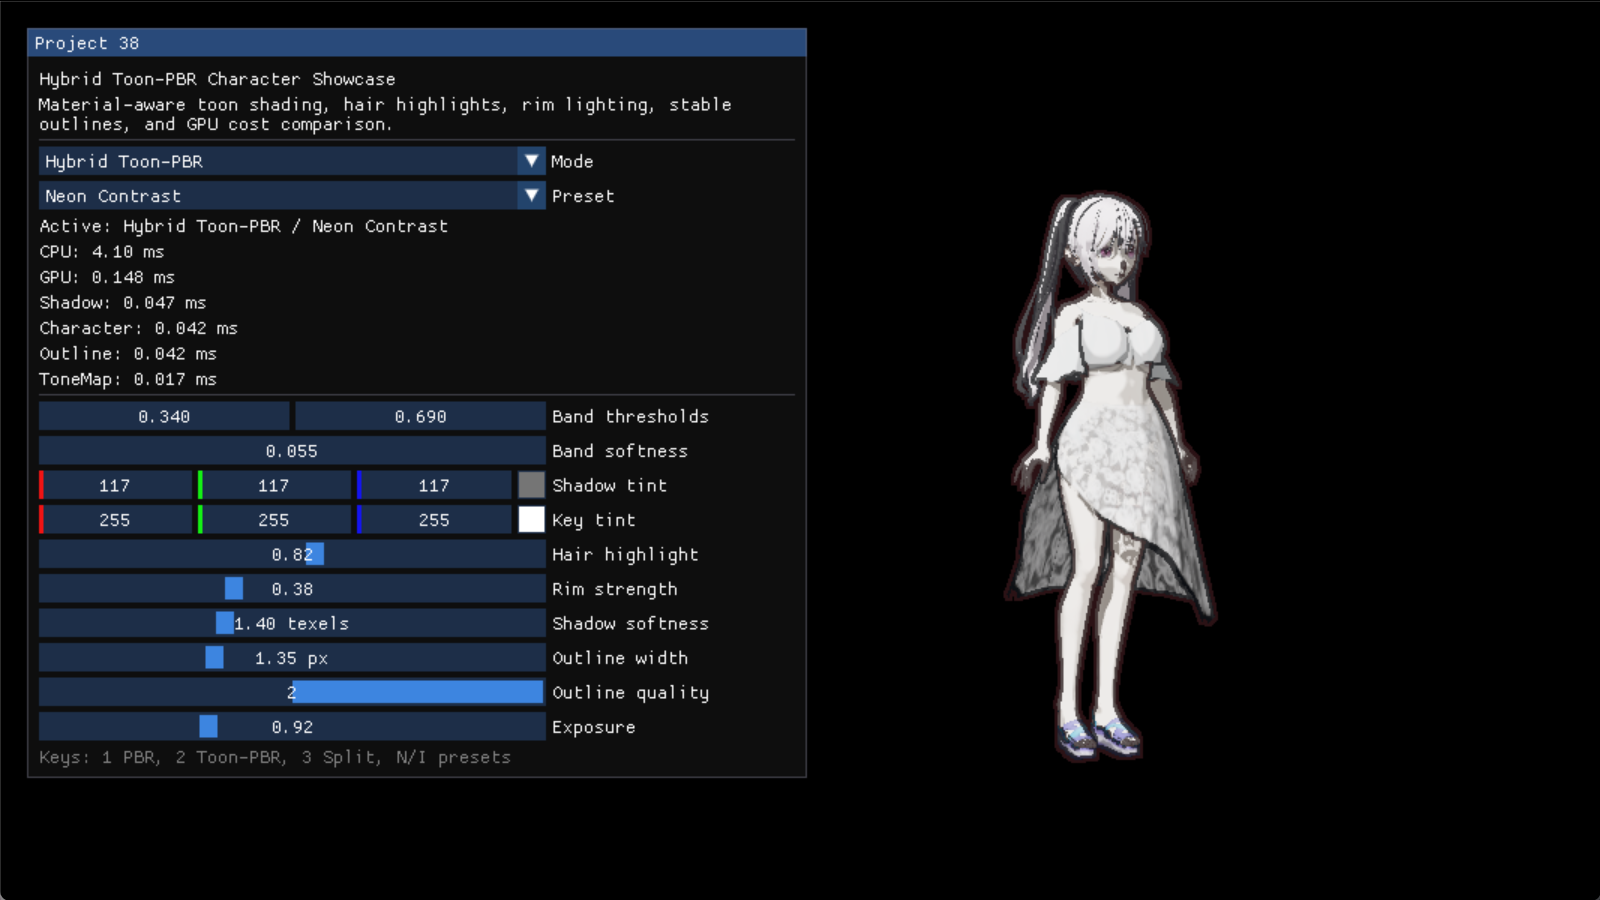
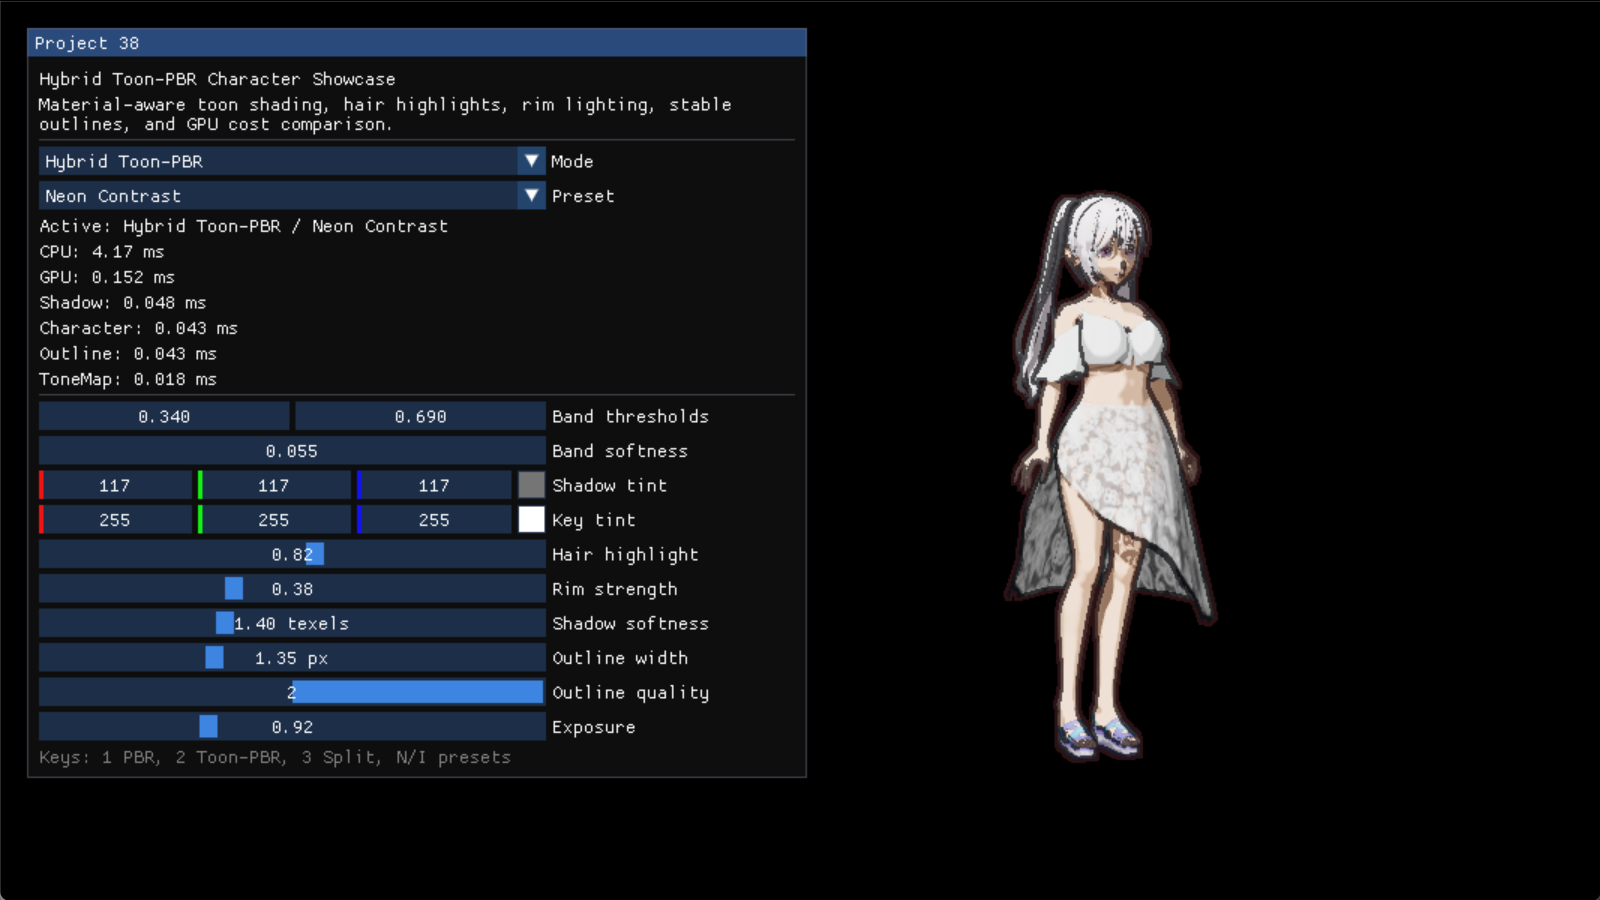
fix: restore project 36 UI and warm project 38 skin

diff --git a/Dx11/38_StylizedToonPBR/App.cpp b/Dx11/38_StylizedToonPBR/App.cpp
@@ -90,6 +90,19 @@ namespace
         { 12, MaterialProfile::Hair },
     }};
 
+    struct SkinToneOverride
+    {
+        uint32_t materialIndex;
+        const char* materialName;
+    };
+
+    // The face model uses separate iris, eye-white, mouth, highlight, and brow overlays which all
+    // need the Skin BRDF profile but must not inherit the body's warm albedo response.
+    constexpr std::array<SkinToneOverride, 2> kSampleModelSkinToneOverrides = {{
+        { 0, "Body_00_SKIN" },
+        { 8, "Face_00_SKIN" },
+    }};
+
     bool CompileShader(
         const wchar_t* fileName,
         const char* entryPoint,
@@ -878,6 +891,20 @@ void App::BuildMaterialProfiles()
             m_materialRenderInfo[overrideEntry.materialIndex].profile = overrideEntry.profile;
     }
 
+    for (const auto& overrideEntry : kSampleModelSkinToneOverrides)
+    {
+        if (overrideEntry.materialIndex >= m_materialRenderInfo.size())
+            continue;
+
+        aiString materialName;
+        aiMaterial* material = scene->mMaterials[overrideEntry.materialIndex];
+        if (material->Get(AI_MATKEY_NAME, materialName) == AI_SUCCESS
+            && std::string(materialName.C_Str()).find(overrideEntry.materialName) != std::string::npos)
+        {
+            m_materialRenderInfo[overrideEntry.materialIndex].skinToneWeight = 1.0f;
+        }
+    }
+
     for (const auto& overrideEntry : kSampleModelBlendModeOverrides)
     {
         if (overrideEntry.materialIndex >= m_materialRenderInfo.size())
@@ -1389,6 +1416,7 @@ void App::UpdateCharacterConstants(
         hasNormal ? 1.0f : 0.0f,
     };
     constants.alphaParameters = { renderInfo.colorAlphaCutoff, 0.0f, 0.0f, 0.0f };
+    constants.styleParameters = { renderInfo.skinToneWeight, 0.0f, 0.0f, 0.0f };
     UpdateDynamicBuffer(m_context.Get(), m_characterConstantBuffer.Get(), constants);
 }
 

diff --git a/Dx11/38_StylizedToonPBR/App.h b/Dx11/38_StylizedToonPBR/App.h
@@ -62,6 +62,7 @@ private:
         DirectX::XMFLOAT4 shadowParameters;
         DirectX::XMFLOAT4 textureParameters;
         DirectX::XMFLOAT4 alphaParameters;
+        DirectX::XMFLOAT4 styleParameters;
     };
 
     struct alignas(16) PostConstants
@@ -82,6 +83,10 @@ private:
         // needs binary coverage instead, so it carries its own cutoff.
         float colorAlphaCutoff = 0.0f;
         float shadowAlphaCutoff = 0.0f;
+        // Only the authored body and face surfaces receive the showcase skin response. Eye,
+        // mouth, brow, and highlight overlays share the Skin material profile for BRDF purposes,
+        // but must retain their authored colours.
+        float skinToneWeight = 0.0f;
         // A glTF BLEND material in this asset is a coplanar decal stacked onto another surface -
         // iris, highlight, eyelash, brow - so it must leave the depth and normal/profile targets the
         // outline pass reads to the surface underneath it. A translucent garment promoted out of an

diff --git a/Dx11/38_StylizedToonPBR/README.md b/Dx11/38_StylizedToonPBR/README.md
@@ -23,7 +23,7 @@
 | `PBR` | 베이스 컬러, 금속성, 거칠기와 직접광을 사용하는 기준 렌더링입니다. |
 | `Hybrid Toon-PBR` | PBR 입력 위에 3영역 확산 램프, 재질별 스페큘러, 헤어 밴드, 림 라이트를 적용합니다. |
 | `Split` | 왼쪽 `PBR`, 오른쪽 `Hybrid Toon-PBR`을 같은 프레임의 같은 카메라·포즈·조명·노출로 그립니다. 셰이딩 경로만 달라집니다. |
-| `Neon Contrast` | 중립 그림자와 순백색 키 라이트로 원본 색조를 보존하면서 명암 밴드와 가장자리 강조를 강하게 만듭니다. |
+| `Neon Contrast` | 중립 그림자와 순백색 키 라이트로 흰 의상을 중립으로 유지하면서 피부의 따뜻한 색과 명암 밴드를 분명하게 만듭니다. |
 | `Industrial Soft` | 채도와 하이라이트를 절제하고 밴드 전이를 더 부드럽게 만듭니다. |
 
 ## 구현된 렌더링 경로
@@ -36,11 +36,12 @@
 
 ### 재질별 Hybrid Toon-PBR
 
-- `Skin`은 피부 톤을 보존하도록 색조를 덧입히지 않는 부드러운 스페큘러 응답을 사용합니다.
+- `Skin`은 부드러운 스페큘러 응답을 사용합니다. 툰 경로에서는 실제 몸과 얼굴 피부에만 따뜻한 피치 응답을 적용해 ACES 뒤에도 얼굴·팔·다리가 흰 의상과 구분됩니다.
 - `Hair`는 좁은 밴드 하이라이트와 짙은 재질 인지 외곽선을 사용합니다.
 - `Cloth`는 넓고 조용한 스페큘러로 광택을 억제합니다.
-- `SampleModel`의 재질 인덱스에는 프로젝트 내부의 명시적 프로필 오버라이드를 적용하고, 다른 재질 이름에는 `hair`, `face`/`skin`, `cloth`/`body` 분류를 폴백으로 사용합니다.
-- 확산광은 `Band thresholds`와 `Band softness`로 제어하는 3영역 램프입니다. 중립 `Shadow tint`와 순백색 `Key tint`는 베이스 텍스처를 덮어쓰지 않고 곱해집니다.
+- `SampleModel`의 재질 인덱스에는 프로젝트 내부의 명시적 프로필 오버라이드를 적용하고, 다른 재질 이름에는 `hair`, `face`/`skin`, `cloth`/`body` 분류를 폴백으로 사용합니다. 피부색 가중치는 이름까지 확인한 몸·얼굴 표면에만 별도로 지정합니다.
+- 눈동자, 흰자, 입, 하이라이트, 눈썹은 BRDF 계산을 위해 `Skin` 프로필을 공유하지만 피부색 가중치는 받지 않습니다. 따라서 얼굴 디테일과 흰 의상은 원본 색을 유지합니다.
+- 확산광은 `Band thresholds`와 `Band softness`로 제어하는 3영역 램프입니다. 중립 `Shadow tint`와 순백색 `Key tint`는 베이스 텍스처에 곱해지고, 실제 피부의 툰 베이스에만 별도의 따뜻한 응답이 적용됩니다.
 - 림 항은 시선 의존 항에 광원 방향 항을 함께 제한해 실루엣 전체가 평평하게 빛나는 현상을 줄입니다.
 
 ## 조작

diff --git a/Dx11/36_AdvancedAnim_Sound_Click/README.md b/Dx11/36_AdvancedAnim_Sound_Click/README.md
@@ -24,6 +24,8 @@ https://github.com/Chang-Jin-Lee/D3D11-AliceAnimation
 - IK
 - Socket
 
+현재 포트폴리오 화면은 공개 `SampleModel.glb` 네 인스턴스가 서로 다른 클립을 재생하며, 12초마다 다음 클립 조합으로 크로스페이드합니다. 각 조합의 4~7초 구간에는 0번 캐릭터의 상체 레이어를 적용합니다. CCD IK는 이 결정론적 쇼케이스 타임라인에는 포함하지 않습니다.
+
 | Screenshot | GIF |
 |---|---|
 | <img src="../../docs/media/readme/36-AdvancedAnim-Sound-Click.png" width="420"/> | <img src="../../docs/media/readme/36-advanced-anim-sound-click.gif" width="420"/> |
@@ -34,6 +36,10 @@ https://github.com/Chang-Jin-Lee/D3D11-AliceAnimation
 - 외부 FBX 애니메이션 클립을 glTF/glb 캐릭터의 스켈레톤 이름에 매칭합니다.
 - Unreal 기준 FBX 위치 키를 glTF/glb 기준 미터/Y-up 좌표계로 변환해 루트/골반 트랜스폼이 튀지 않게 보정합니다.
 - FMOD 3D 사운드, ImGui 디버그 패널, 멀티스레드 리소스 로딩을 함께 확인할 수 있습니다.
+- 일반 실행에서는 기존 `Controls`, `ShadowMap`, `Scene Collection`, `Console`, 사운드·시스템 디버그 패널을 표시합니다. README 캡처 모드에서는 패널 대신 클립 조합과 현재 기법을 설명하는 간결한 HUD만 표시합니다.
+- Advanced Rig은 네 캐릭터 팔레트를 포트폴리오 타임라인이 소유하므로 비활성 상태와 그 이유를 패널에 명시합니다.
+- Deferred Rendering은 이 포트폴리오 구도의 조명·합성을 보존하기 위해 Forward로 고정하며, 일반 실행의 Controls와 Deferred 패널에 비활성 사유를 표시합니다.
+- 공개 glTF 캐릭터의 미터 단위를 이 장면의 월드 구성에 맞춰 명시적으로 `80` 스케일로 변환합니다. 네 캐릭터를 담기 위해 카메라가 약 285 월드 단위로 멀어진 만큼 기본 이동 속도는 `40`이며, `Controls`에서 다시 조절할 수 있습니다.
 
 <!-- README-RUNTIME:START -->
 ## 실행 화면

diff --git a/README.md b/README.md
@@ -24,7 +24,7 @@ D3D 그래픽스를 학습하면서 정리한 튜토리얼 프로젝트입니다
 | 항목 | 내용 |
 |---|---|
 | 실행 | `Dx11/TutorialApp.sln` 열기 -> `36_AdvancedAnim_Sound_Click` 시작 프로젝트 -> `x64` 빌드 |
-| 렌더링 | Forward/Deferred 전환, Shadow, PBR, IBL, Tone Mapping |
+| 렌더링 | 포트폴리오 Forward 경로, Shadow, PBR, IBL, Tone Mapping (`35_DeferredRendering`에 Deferred 단계) |
 | 애니메이션 | Blend, Additive, Layer, IK, Socket |
 | 사운드/UI | FMOD 3D Sound, SoundBox, ImGui Debug Panels |
 | 구조 | `Dx11/Common` 공통 코드 + `35_DeferredRendering` 렌더링 단계 + `36_AdvancedAnim_Sound_Click` 통합 데모 |
@@ -41,7 +41,7 @@ Dx11/36_AdvancedAnim_Sound_Click/    대표 통합 데모
 
 ## 스타일라이즈드 렌더링 쇼케이스
 
-[`38_StylizedToonPBR`](Dx11/38_StylizedToonPBR)는 공개 캐릭터 하나를 같은 카메라와 조명에서 `PBR`, `Hybrid Toon-PBR`, `Split`으로 비교하는 집중형 샘플입니다. 재질별 Skin/Hair/Cloth 응답, 화면 공간 Normal/Depth 외곽선, 두 개의 독자적 조명 프리셋, 비동기 GPU 패스 측정을 한 프로젝트에서 확인할 수 있습니다.
+[`38_StylizedToonPBR`](Dx11/38_StylizedToonPBR)는 공개 캐릭터 하나를 같은 카메라와 조명에서 `PBR`, `Hybrid Toon-PBR`, `Split`으로 비교하는 집중형 샘플입니다. 실제 몸·얼굴 피부만 따뜻하게 분리하고 흰 의상과 얼굴 오버레이는 중립으로 유지하는 재질별 응답, 화면 공간 Normal/Depth 외곽선, 두 개의 독자적 조명 프리셋, 비동기 GPU 패스 측정을 한 프로젝트에서 확인할 수 있습니다.
 
 | Screenshot | 핵심 비교 |
 |---|---|

diff --git a/docs/media/readme/capture-report.md b/docs/media/readme/capture-report.md
@@ -1,6 +1,6 @@
 # README media capture report
 
-Generated: 2026-08-24 12:26:42
+Generated: 2026-08-25 00:11:52
 
 | Project | Attempt | Exe | Output | Status | Dimensions | Bytes | Notes |
 |---|---:|---|---|---|---|---:|---|
@@ -78,5 +78,5 @@ Generated: 2026-08-24 12:26:42
 | 36 | 1 | 36_AdvancedAnim_Sound_Click.exe | docs/media/readme/36-advanced-anim-sound-click.gif | Success | 800x450 | 4136168 | GIF captured; source frames collected in 12983 ms |
 | 37 | 1 | 37_Blueprint.exe | docs/media/readme/37-Blueprint.png | Success | 1600x900 | 75980 | PNG captured |
 | 37 | 1 | 37_Blueprint.exe | docs/media/readme/37-Blueprint.gif | Success | 800x450 | 1397691 | GIF generated from the captured PNG with the reproducible presentation-pan stage |
-| 38 | 1 | 38_StylizedToonPBR.exe | docs/media/readme/38-StylizedToonPBR.png | Success | 1600x900 | 212398 | PNG captured |
-| 38 | 1 | 38_StylizedToonPBR.exe | docs/media/readme/38-StylizedToonPBR.gif | Success | 800x450 | 627999 | GIF captured; source frames collected in 3971 ms |
+| 38 | 1 | 38_StylizedToonPBR.exe | docs/media/readme/38-StylizedToonPBR.png | Success | 1600x900 | 219860 | PNG captured |
+| 38 | 1 | 38_StylizedToonPBR.exe | docs/media/readme/38-StylizedToonPBR.gif | Success | 800x450 | 599395 | GIF captured; source frames collected in 3944 ms |
